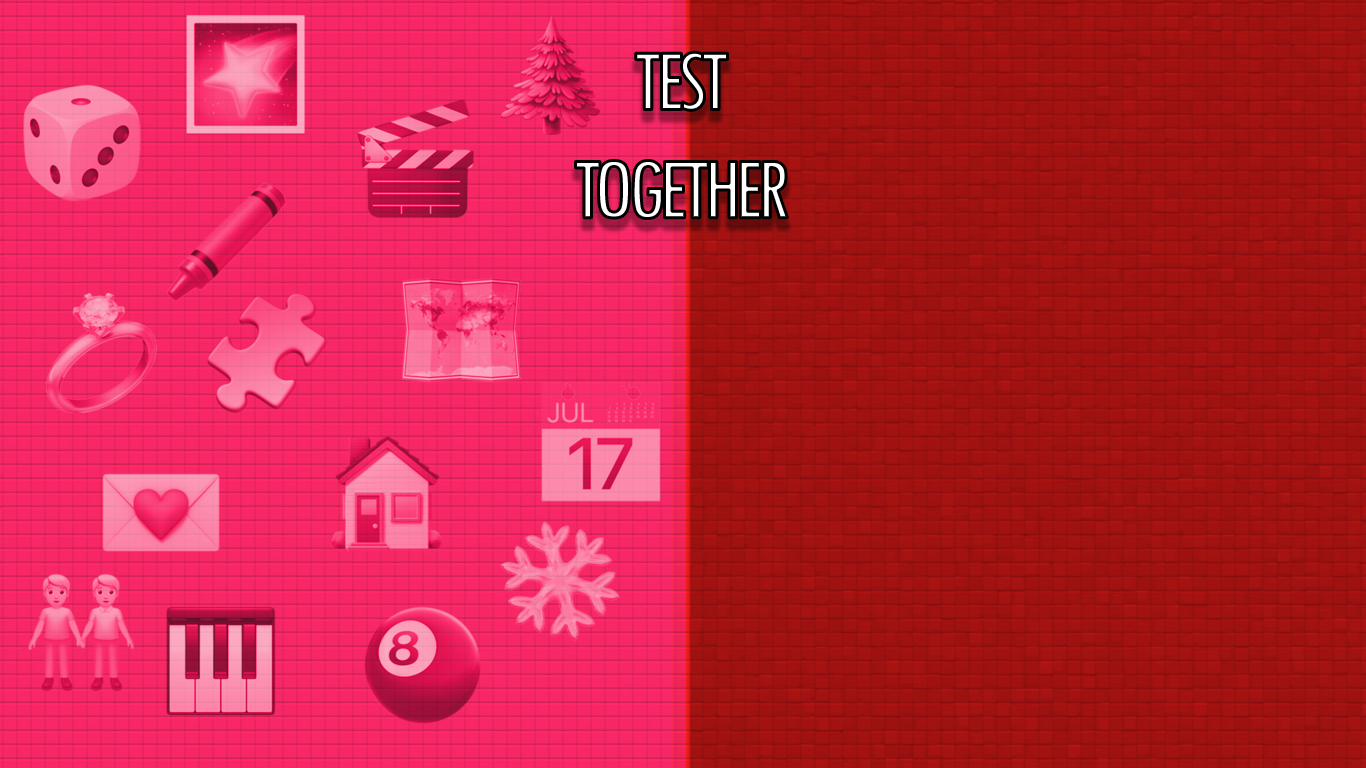
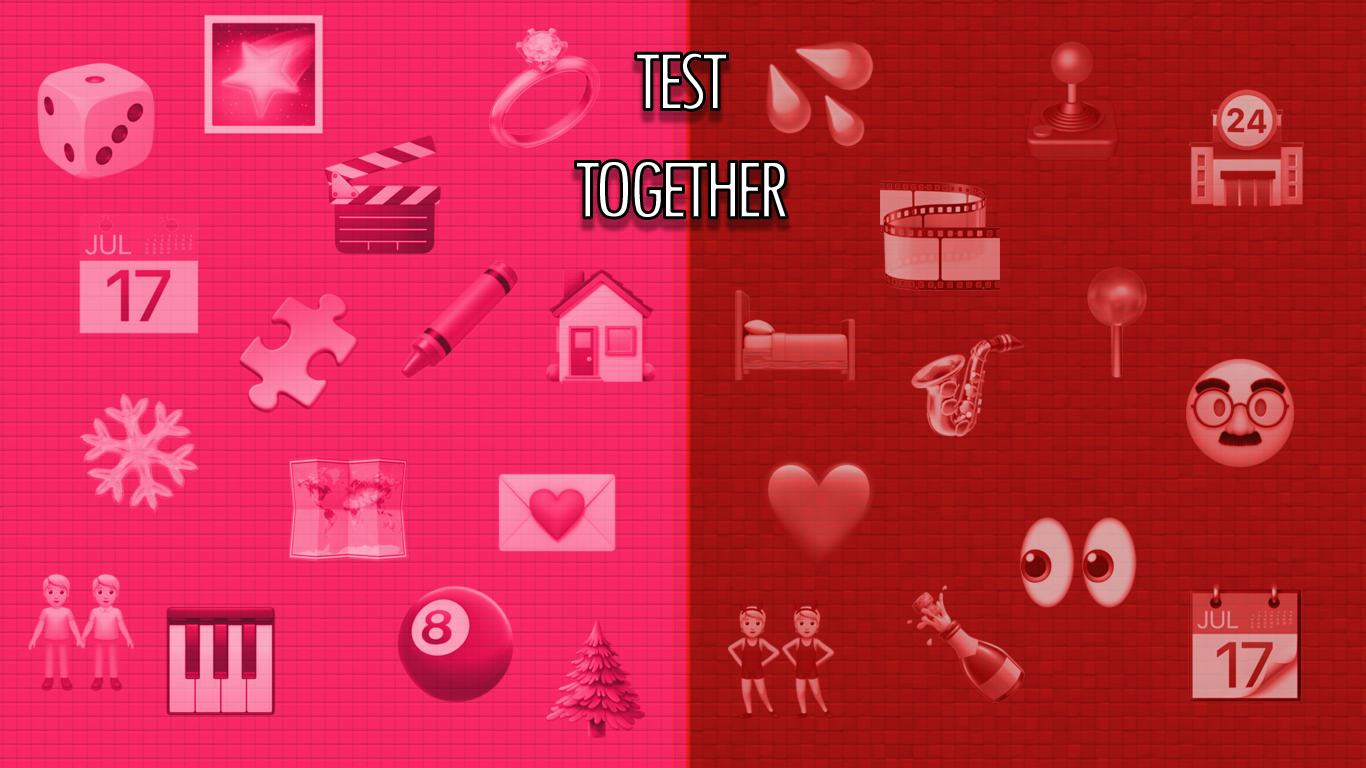
Add files via upload

diff --git a/spicy.html b/spicy.html
@@ -21,114 +21,106 @@
     &emsp;Check off every item that you have done <strong>together</strong>...
     <div id="list">
         <ol>
-            Positions
-            <li> <input type="checkbox" id="34"> 69'd each other
-            <li> <input type="checkbox" id="35"> Had sex in four different positions
-            <li> <input type="checkbox" id="56"> Had sex up against a wall
-            <li> <input type="checkbox" id="76"> Had sex lying on your sides
-            <li> <input type="checkbox" id="77"> Had sex in missionary
-            <li> <input type="checkbox" id="78"> Had sex in doggystyle
-            <li> <input type="checkbox" id="79"> Had sex in cowgirl/cowboy
-            <li> <input type="checkbox" id="80"> Had sex in reverse cowgirl/cowboy
-            <li> <input type="checkbox" id="81"> Had sex in rocking horse
-            Locations
-            <li> <input type="checkbox" id="2"> French kissed in public
-            <li> <input type="checkbox" id="60"> Sex in a pitch black room
-            <li> <input type="checkbox" id="39"> Had sex in a bed not belonging to either of you
-            <li> <input type="checkbox" id="28"> Had sex on the floor
-            <li> <input type="checkbox" id="60"> Had sex in the bath
-            <li> <input type="checkbox" id="17"> Had sex in the shower
-            <li> <input type="checkbox" id="38"> Had sex in a swimming pool or hot tub
-            <li> <input type="checkbox" id="36"> Had sex in a vehicle
-            <li> <input type="checkbox" id="37"> Had sex outdoors
-            Other activities
-            <li> <input type="checkbox" id="59"> Read erotica together
-            <li> <input type="checkbox" id="11"> Watched porn together
-            <li> <input type="checkbox" id="55"> Created a sex playlist together
-            <li> <input type="checkbox" id="25"> Purchased contraceptives together
-            <li> <input type="checkbox" id="51"> Gone lingerie shopping together
-            <li> <input type="checkbox" id="9"> Played a stripping game together
-            <li> <input type="checkbox" id="53"> Played sexual truth or dare
-            <li> <input type="checkbox" id="54"> Played naked twister
-            Scenarios
-            <li> <input type="checkbox" id="61"> Had really loud sex
-            <li> <input type="checkbox" id="12"> Masturbated together with someone else in the room
-            <li> <input type="checkbox" id="40"> Had sex with someone else in the room
-            <li> <input type="checkbox" id="41"> Had a threesome
-            <li> <input type="checkbox" id="42"> Attended an orgy together
-            <li> <input type="checkbox" id="46"> Sexually roleplayed as strangers
-            <li> <input type="checkbox" id="47"> Sexually roleplayed as nurse/patient
-            <li> <input type="checkbox" id="48"> Sexually roleplayed as masseuse/client
-            <li> <input type="checkbox" id="49"> Sexually roleplayed as characters from a disney film
-            <li> <input type="checkbox" id="50"> Sexually roleplayed as characters from harry potter
-            <li> <input type="checkbox" id="57"> Had sex while engaged
-            <li> <input type="checkbox" id="58"> Had sex while married
-            Actions
-            <li> <input type="checkbox" id="1"> French kissed
-            <li> <input type="checkbox" id="3"> Kissed on the neck
-            <li> <input type="checkbox" id="4"> Kissed horizontally
-            <li> <input type="checkbox" id="5"> Given each other hickeys
-            <li> <input type="checkbox" id="6"> Kissed each other on the nipple
-            <li> <input type="checkbox" id="7"> Kissed each other below the belt
-            <li> <input type="checkbox" id="8"> Kissed for over two hours straight
-            <li> <input type="checkbox" id="10"> Masturbated together
-            <li> <input type="checkbox" id="13"> Masturbated each other with a sex toy
-            <li> <input type="checkbox" id="62"> Used a sex toy on each other during sex
-            <li> <input type="checkbox" id="14"> Massaged each other sensually
-            <li> <input type="checkbox" id="15"> Gone through the motions of sex while fully dressed
-            <li> <input type="checkbox" id="16"> Undressed each other
-            <li> <input type="checkbox" id="18"> Fondled each other's butt cheeks
-            <li> <input type="checkbox" id="19"> Fondled each other's breasts
-            <li> <input type="checkbox" id="20"> Fondled each other's genitals
-            <li> <input type="checkbox" id="22"> Sent explicit texts to one another
-            <li> <input type="checkbox" id="23"> Sent explicit photos to one another
-            <li> <input type="checkbox" id="24"> Had e-sex over video chat
-            <li> <input type="checkbox" id="26"> Given each other head
-            <li> <input type="checkbox" id="27"> Ingested each other's genital secretion
-            <li> <input type="checkbox" id="31"> Had sex
-            <li> <input type="checkbox" id="32"> Had sex three times in one day
-            <li> <input type="checkbox" id="33"> Had sex ten times in one day
-            <li> <input type="checkbox" id="43"> Photographed each other during sex
-            <li> <input type="checkbox" id="44"> Had period sex (free space if you don't swing that way)
-            <li> <input type="checkbox" id="45"> Had anal sex
-            <li> <input type="checkbox" id="52"> Given each other a lap dance
-            
-            Other
-            <li> <input type="checkbox" id="21"> 
-            <li> <input type="checkbox" id="29"> 
-            <li> <input type="checkbox" id="30"> 
-            <li> <input type="checkbox" id="63">
-            <li> <input type="checkbox" id="64"> 
-            <li> <input type="checkbox" id="65"> 
-            <li> <input type="checkbox" id="66"> 
-            <li> <input type="checkbox" id="67"> 
-            <li> <input type="checkbox" id="68"> 
-            <li> <input type="checkbox" id="69"> 
-            <li> <input type="checkbox" id="70"> 
-            <li> <input type="checkbox" id="71"> 
-            <li> <input type="checkbox" id="72"> 
-            <li> <input type="checkbox" id="73"> 
-            <li> <input type="checkbox" id="74"> 
-            <li> <input type="checkbox" id="75"> 
-            <li> <input type="checkbox" id="82"> 
-            <li> <input type="checkbox" id="83">
-            <li> <input type="checkbox" id="84">
-            <li> <input type="checkbox" id="85">
-            <li> <input type="checkbox" id="86">
-            <li> <input type="checkbox" id="87">
-            <li> <input type="checkbox" id="88">
-            <li> <input type="checkbox" id="89">
-            <li> <input type="checkbox" id="90">
-            <li> <input type="checkbox" id="91">
-            <li> <input type="checkbox" id="92">
-            <li> <input type="checkbox" id="93">
-            <li> <input type="checkbox" id="94">
-            <li> <input type="checkbox" id="95">
-            <li> <input type="checkbox" id="96">
-            <li> <input type="checkbox" id="97">
-            <li> <input type="checkbox" id="98">
-            <li> <input type="checkbox" id="99">
-            <li> <input type="checkbox" id="100">
+            <li> <input type="checkbox" id="1"> Touched each other sensually ❤
+            <li> <input type="checkbox" id="2"> Undressed each other ❤
+            <li> <input type="checkbox" id="3"> Seen each other naked ❤
+            <li> <input type="checkbox" id="4"> French kissed ❤
+            <li> <input type="checkbox" id="5"> French kissed in public ❤
+            <li> <input type="checkbox" id="6"> Kissed on the neck ❤
+            <li> <input type="checkbox" id="7"> Kissed horizontally ❤
+            <li> <input type="checkbox" id="8"> Kissed each other on the nipple ❤
+            <li> <input type="checkbox" id="9"> Kissed each other below the belt ❤
+            <li> <input type="checkbox" id="10"> Kissed for over two hours straight ❤
+            <li> <input type="checkbox" id="11"> Kissed in the rain ❤
+            <li> <input type="checkbox" id="12"> Given each other hickeys ❤
+            <li> <input type="checkbox" id="13"> Read erotica ❤
+            <li> <input type="checkbox" id="14"> Watched porn ❤
+            <li> <input type="checkbox" id="15"> Fondled each other's butt cheeks ❤
+            <li> <input type="checkbox" id="16"> Fondled each other's breasts ❤
+            <li> <input type="checkbox" id="17"> Fondled each other's genitals ❤
+            <li> <input type="checkbox" id="18"> Gone skinny dipping ❤
+            <li> <input type="checkbox" id="19"> Massaged each other sensually ❤
+            <li> <input type="checkbox" id="20"> Gone through the motions of sex while fully dressed ❤
+            <li> <input type="checkbox" id="21"> Performed oral sex on each other ❤
+            <li> <input type="checkbox" id="22"> Performed analingus on each other ❤
+            <li> <input type="checkbox" id="23"> Ingested each other's genital secretions ❤
+            <li> <input type="checkbox" id="24"> Masturbated together ❤
+            <li> <input type="checkbox" id="25"> Masturbated each other ❤
+            <li> <input type="checkbox" id="26"> Purchased contraceptives 🏪
+            <li> <input type="checkbox" id="27"> Gone lingerie shopping 🏪
+            <li> <input type="checkbox" id="28"> Had sex 🛏
+            <li> <input type="checkbox" id="29"> Had sex three times in one day 🛏
+            <li> <input type="checkbox" id="30"> Had sex ten times in one day 🛏
+            <li> <input type="checkbox" id="31"> Had sex for an hour straight 🛏
+            <li> <input type="checkbox" id="32"> Had sex for two hours straight 🛏
+            <li> <input type="checkbox" id="33"> Had sex for three hours straight 🛏
+            <li> <input type="checkbox" id="34"> Had sex while on a video call 🛏
+            <li> <input type="checkbox" id="35"> Had sex in a pitch black room 📍
+            <li> <input type="checkbox" id="36"> Had sex in a brightly lit room 📍
+            <li> <input type="checkbox" id="37"> Had sex in a bed not belonging to any of you 📍
+            <li> <input type="checkbox" id="38"> Had sex in a home not belonging to any of you 📍
+            <li> <input type="checkbox" id="39"> Had sex on the floor 📍
+            <li> <input type="checkbox" id="40"> Had sex on a table 📍
+            <li> <input type="checkbox" id="41"> Had sex in the kitchen 📍
+            <li> <input type="checkbox" id="42"> Had sex in the bath 📍
+            <li> <input type="checkbox" id="43"> Had sex in the shower 📍
+            <li> <input type="checkbox" id="44"> Had sex in a swimming pool or hot tub 📍
+            <li> <input type="checkbox" id="45"> Had sex in a natural body of water 📍
+            <li> <input type="checkbox" id="46"> Had sex in a vehicle 📍
+            <li> <input type="checkbox" id="47"> Had sex in a shed 📍
+            <li> <input type="checkbox" id="48"> Had sex outdoors 📍
+            <li> <input type="checkbox" id="49"> Had sex in a hotel or motel room 📍
+            <li> <input type="checkbox" id="50"> Played a stripping game 🕹
+            <li> <input type="checkbox" id="51"> Played naked twister 🕹
+            <li> <input type="checkbox" id="52"> Played dirty truth or dare 🕹
+            <li> <input type="checkbox" id="53"> Given each other a lap dance 🕹
+            <li> <input type="checkbox" id="54"> Given each other a strip tease 🕹
+            <li> <input type="checkbox" id="55"> Gone through a value pack of condoms 🕹
+            <li> <input type="checkbox" id="56"> Made use of handcuffs during sex 🕹
+            <li> <input type="checkbox" id="57"> Made use of an ice cube during sex 🕹
+            <li> <input type="checkbox" id="58"> Made use of a sex toy together 🕹
+            <li> <input type="checkbox" id="59"> Made use of a dildo during sex 🕹
+            <li> <input type="checkbox" id="60"> Made use of a vibrator during sex 🕹
+            <li> <input type="checkbox" id="61"> Had sex in four different positions 💦
+            <li> <input type="checkbox" id="62"> Had sex up against a wall 💦
+            <li> <input type="checkbox" id="63"> Had sex lying on your sides 💦
+            <li> <input type="checkbox" id="64"> Had anal sex 💦
+            <li> <input type="checkbox" id="65"> Had period sex (free space if you don't swing that way) 💦
+            <li> <input type="checkbox" id="66"> Had silent sex 💦
+            <li> <input type="checkbox" id="67"> Had really loud sex 💦
+            <li> <input type="checkbox" id="68"> Had sex immediately after waking up 💦
+            <li> <input type="checkbox" id="69"> ? 💦
+            <li> <input type="checkbox" id="70"> Masturbated together with someone else in the room 👯
+            <li> <input type="checkbox" id="71"> Had sex with someone else in the room 👯
+            <li> <input type="checkbox" id="72"> Had a sexual competition with another couple/group 👯
+            <li> <input type="checkbox" id="73"> Had a threesome 👯
+            <li> <input type="checkbox" id="74"> Had a foursome 👯
+            <li> <input type="checkbox" id="75"> Attended an orgy 👯
+            <li> <input type="checkbox" id="76"> Had sex to a rock song on loop 🎷
+            <li> <input type="checkbox" id="77"> Had sex to a pop song on loop 🎷
+            <li> <input type="checkbox" id="78"> Had sex to a rap song on loop 🎷
+            <li> <input type="checkbox" id="79"> Had sex to an instrumental song on loop 🎷
+            <li> <input type="checkbox" id="80"> Created a sex playlist 🎞
+            <li> <input type="checkbox" id="81"> Taken a lewd photo shoot of each other 🎞
+            <li> <input type="checkbox" id="82"> Photographed each other during sex 🎞
+            <li> <input type="checkbox" id="83"> Videographed each other during sex 🎞
+            <li> <input type="checkbox" id="84"> Sexually roleplayed as masseuse/client 🥸
+            <li> <input type="checkbox" id="85"> Sexually roleplayed as nurse/patient 🥸
+            <li> <input type="checkbox" id="86"> Sexually roleplayed as strangers 🥸
+            <li> <input type="checkbox" id="87"> Sexually roleplayed as characters from an animated film 🥸
+            <li> <input type="checkbox" id="88"> Sexually roleplayed as characters from a live action film 🥸
+            <li> <input type="checkbox" id="89"> Had sex in the summer 📆
+            <li> <input type="checkbox" id="90"> Had sex in the fall 📆
+            <li> <input type="checkbox" id="91"> Had sex in the winter 📆
+            <li> <input type="checkbox" id="92"> Had sex in the spring 📆
+            <li> <input type="checkbox" id="93"> Had new years sex 📆
+            <li> <input type="checkbox" id="94"> Had valentine's day sex 📆
+            <li> <input type="checkbox" id="95"> Had e-sex over video chat 👀
+            <li> <input type="checkbox" id="96"> Sent explicit texts to one another 👀
+            <li> <input type="checkbox" id="97"> Sent explicit photos to one another 👀
+            <li> <input type="checkbox" id="98"> Gotten permanent tattoos below the belt 🍾
+            <li> <input type="checkbox" id="99"> Had sex while engaged 🍾
+            <li> <input type="checkbox" id="100"> Had sex while married 🍾
         </ol>
 
         <a href="/index.html" onclick="return calculateSpicy()">Confirm</a>
